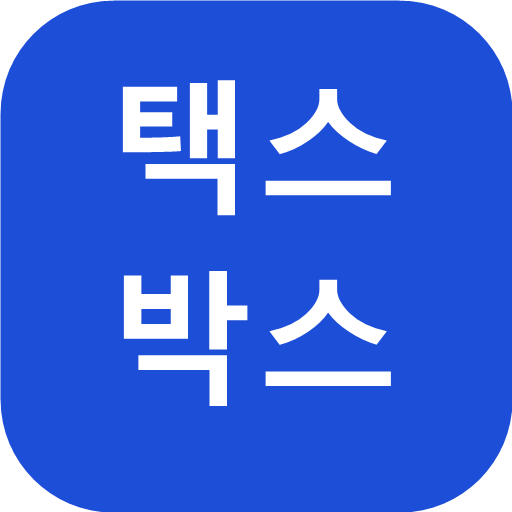
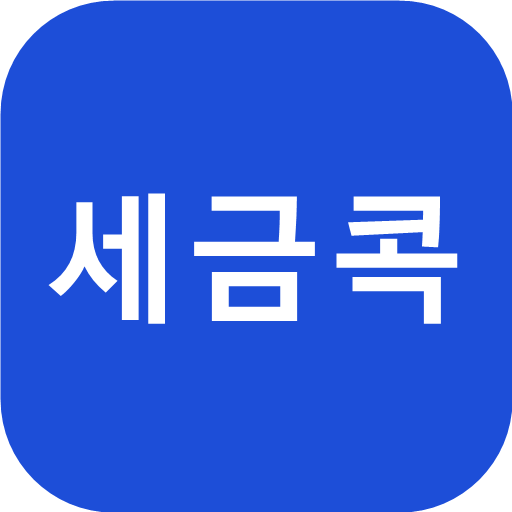
서비스 이름을 세금콕(taxkok)으로 변경
- 화면 제목, 앱 이름, 설치 안내 문구
- 아이콘 글씨를 "세금콕"으로 다시 그림
- 저장 키와 오프라인 저장 이름을 taxkok으로 변경

Changed region(s): [[0.0938, 0.1562, 0.9062, 0.8125], [0.5312, 0.1562, 0.75, 0.3125], [0.5, 0.7188, 0.7812, 0.7812]]

diff --git a/index.html b/index.html
@@ -10,11 +10,11 @@
 <link rel="apple-touch-icon" href="icons/apple-touch-icon.png">
 <meta name="apple-mobile-web-app-capable" content="yes">
 <meta name="mobile-web-app-capable" content="yes">
-<meta name="apple-mobile-web-app-title" content="택스박스">
-<title>택스박스</title>
+<meta name="apple-mobile-web-app-title" content="세금콕">
+<title>세금콕</title>
 <script>
   // 저장된 글씨 크기를 화면이 그려지기 전에 적용 (깜빡임 방지)
-  try { document.documentElement.dataset.size = localStorage.getItem('taxbox-size') || '1'; } catch (e) {}
+  try { document.documentElement.dataset.size = localStorage.getItem('taxkok-size') || '1'; } catch (e) {}
 
   // 카카오톡 안에서 열면 앱 설치가 안 되므로, 바로 휴대폰 기본 브라우저(크롬·사파리)로 다시 엽니다.
   if (/KAKAOTALK/i.test(navigator.userAgent)) {
@@ -288,7 +288,7 @@
 </head>
 <body>
 <header>
-  <h1>택스박스</h1>
+  <h1>세금콕</h1>
   <button id="settingsBtn" class="head-btn">글씨 크기</button>
   <button id="homeBtn" class="head-btn hidden">처음으로</button>
 </header>
@@ -356,7 +356,7 @@
     </button>
 
     <div id="installBox" class="install hidden">
-      <p><b>휴대폰 바탕화면에 택스박스를 놓아두세요.</b><br>다음부터 앱처럼 바로 열 수 있어요.</p>
+      <p><b>휴대폰 바탕화면에 세금콕을 놓아두세요.</b><br>다음부터 앱처럼 바로 열 수 있어요.</p>
       <button id="installBtn" class="btn btn-primary">바탕화면에 설치하기</button>
     </div>
     <div id="iosInstall" class="install hidden">
@@ -802,7 +802,7 @@
     try { localStorage.setItem(key, value); } catch (e) {}
   }
 
-  let padMode = load('taxbox-pad', 'big');
+  let padMode = load('taxkok-pad', 'big');
 
   function applySettings() {
     const size = document.documentElement.dataset.size || '1';
@@ -821,14 +821,14 @@
   document.querySelectorAll('.seg.size button').forEach((b) => {
     b.addEventListener('click', () => {
       document.documentElement.dataset.size = b.dataset.size;
-      save('taxbox-size', b.dataset.size);
+      save('taxkok-size', b.dataset.size);
       applySettings();
     });
   });
   document.querySelectorAll('.seg.pad button').forEach((b) => {
     b.addEventListener('click', () => {
       padMode = b.dataset.pad;
-      save('taxbox-pad', padMode);
+      save('taxkok-pad', padMode);
       applySettings();
     });
   });
@@ -920,7 +920,7 @@
   const isAndroid = /android/i.test(ua);
   // 카카오톡 말고도 앱 안에서 열리는 브라우저 (네이버, 인스타그램, 페이스북, 라인, 밴드, 다음)
   const isInApp = /KAKAOTALK|NAVER\(inapp|Instagram|FBAN|FBAV|Line\/|BAND\/|DaumApps/i.test(ua);
-  const LATER_KEY = 'taxbox-install-later';
+  const LATER_KEY = 'taxkok-install-later';
   const LATER_DAYS = 3;
   let installEvent = null;
 
@@ -935,7 +935,7 @@
     // 아이폰은 이 창을 닫아야 공유 버튼을 누를 수 있으므로 "알겠어요"
     $('installLater').textContent = (kind === 'ios' || kind === 'inapp-ios') ? '알겠어요' : '나중에 할게요';
     if (kind === 'android') {
-      title.textContent = '택스박스를 설치할까요?';
+      title.textContent = '세금콕을 설치할까요?';
       body.innerHTML = '<p>휴대폰 바탕화면에 아이콘이 생겨서<br>다음부터 앱처럼 바로 열 수 있어요.</p>';
       go.textContent = '설치하기';
       go.dataset.action = 'install';

diff --git a/sw.js b/sw.js
@@ -1,6 +1,6 @@
 // 앱 화면을 휴대폰에 저장해 두어서 인터넷이 약해도 바로 열리게 합니다.
 // 파일을 고치면 CACHE 이름의 숫자를 올려야 휴대폰에 새 버전이 들어갑니다.
-const CACHE = 'taxbox-v6';
+const CACHE = 'taxkok-v1';
 const FILES = [
   './',
   'index.html',
